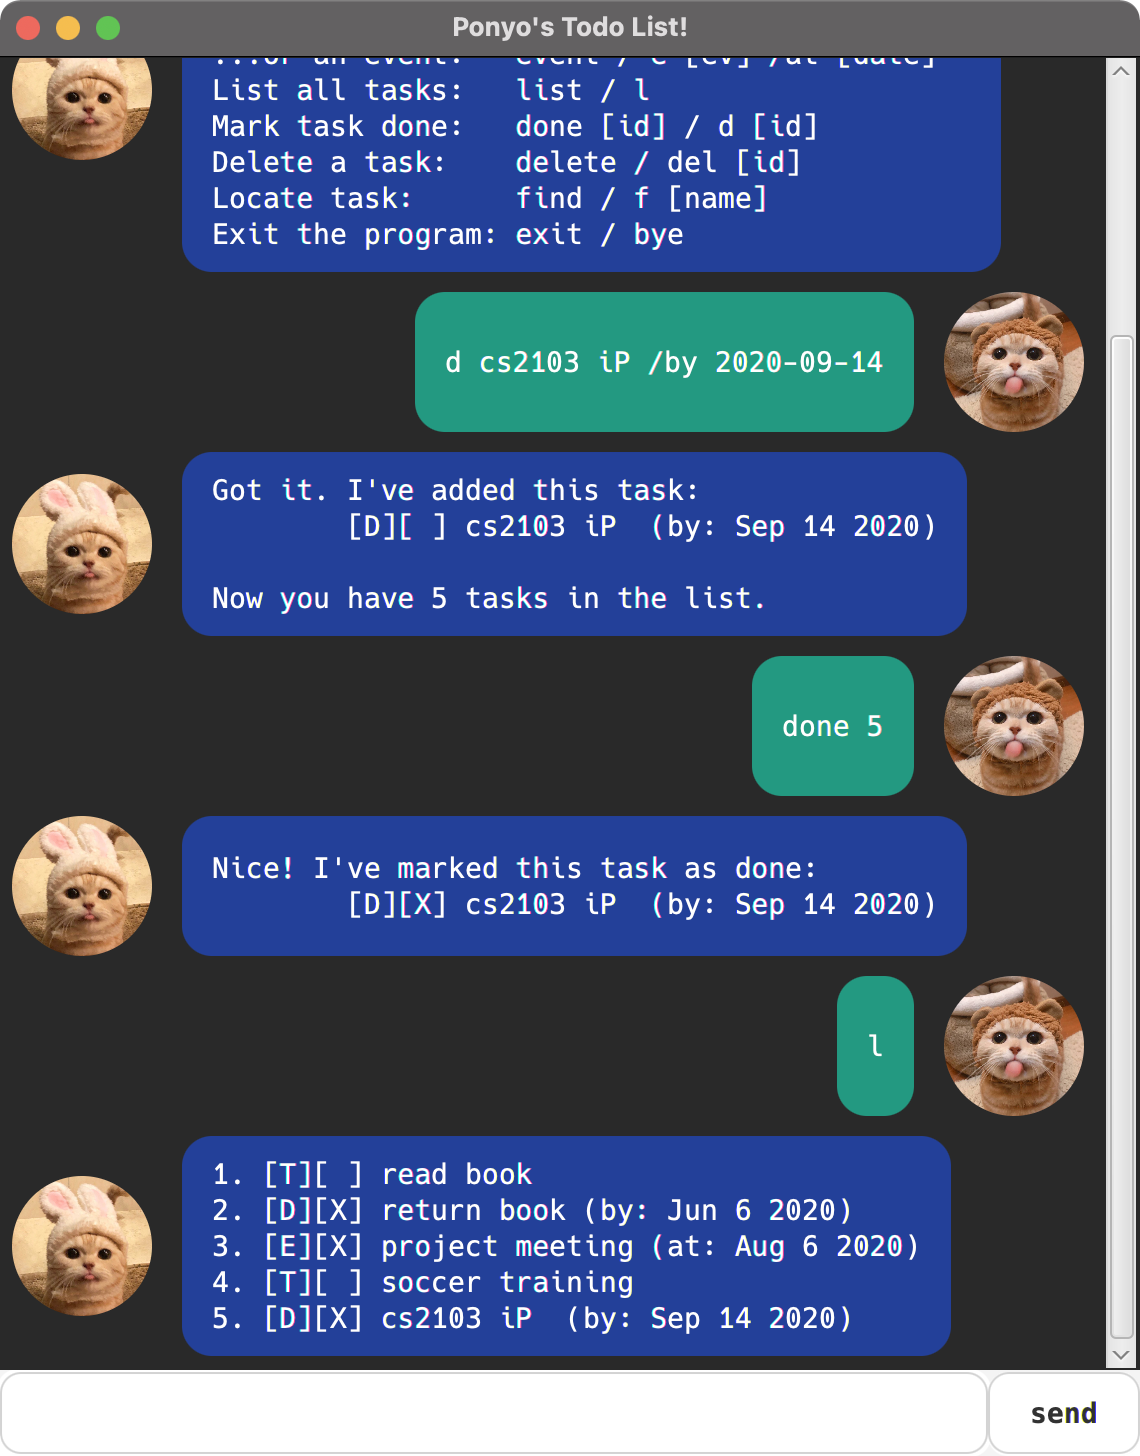
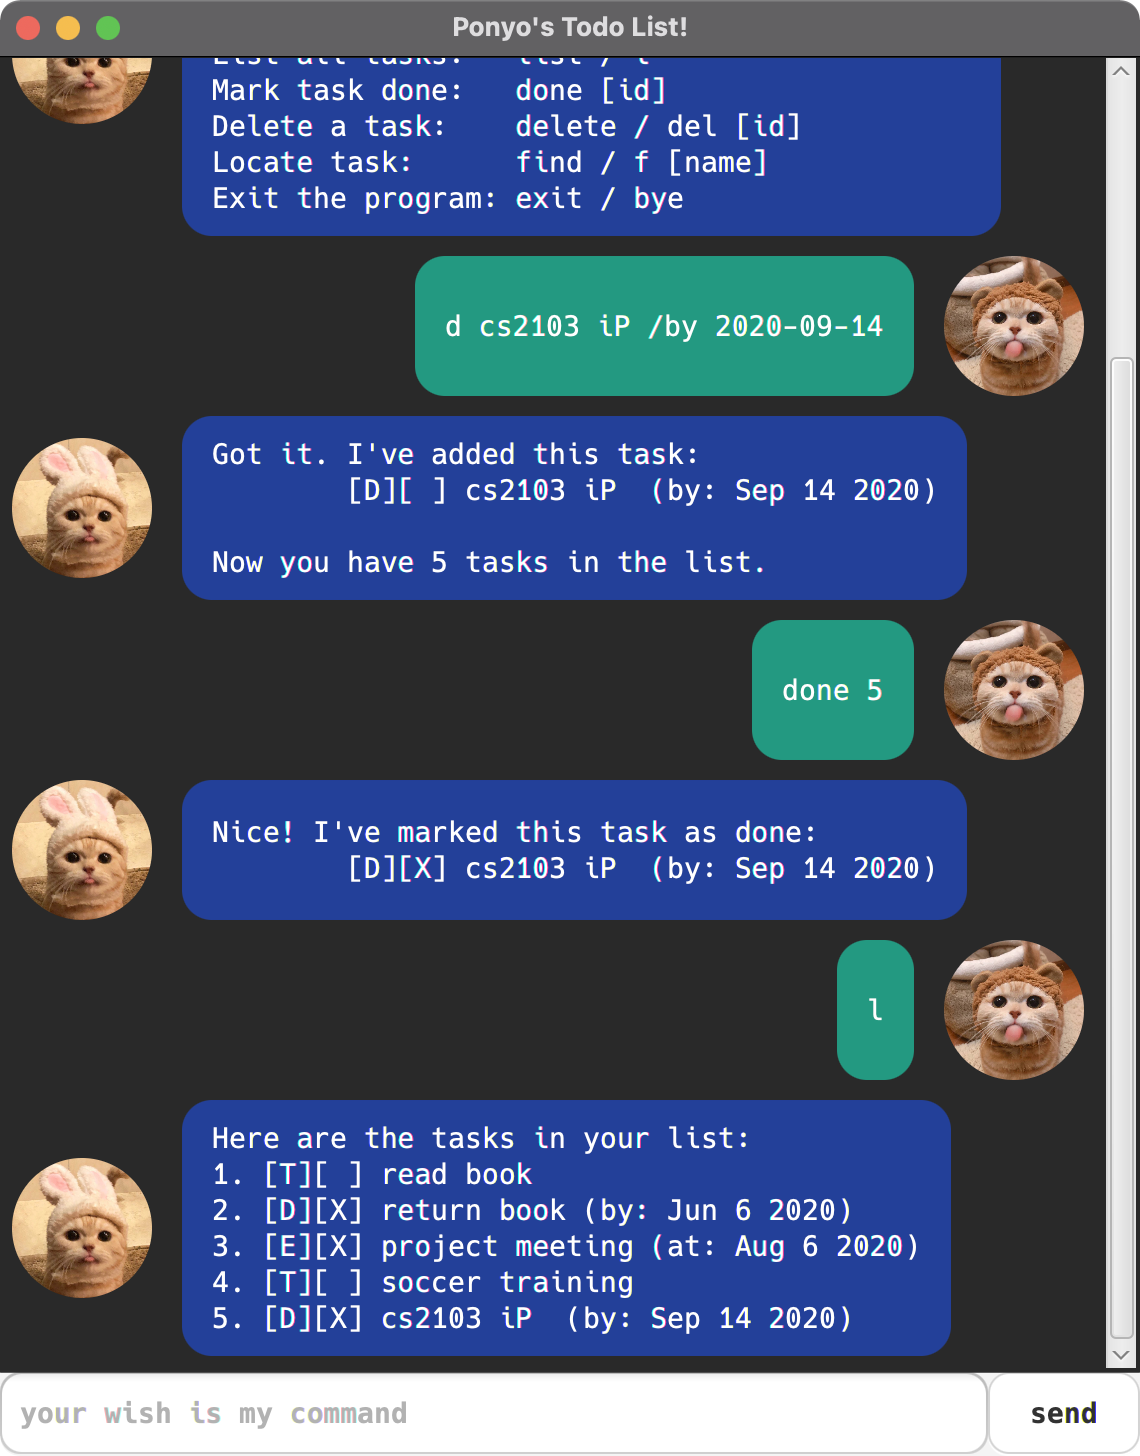
Add styling changes

diff --git a/src/main/java/ponyo/commands/ListCommand.java b/src/main/java/ponyo/commands/ListCommand.java
@@ -11,14 +11,15 @@ import ponyo.ui.Ui;
 public class ListCommand extends Command {
     @Override
     public String[] execute(TaskList tasks, Storage storage) {
-        String[] args = new String[tasks.size()];
+        String[] args = new String[tasks.size() + 1];
 
         if (tasks.isEmpty()) {
             return Ui.show(Messages.MESSAGE_NO_TASKS);
         }
 
+        args[0] = "Here are the tasks in your list: ";
         for (int i = 0; i < tasks.size(); i++) {
-            args[i] = (i + 1) + ". " + tasks.retrieveTask(i);
+            args[i + 1] = (i + 1) + ". " + tasks.retrieveTask(i);
         }
         return Ui.show(args);
     }
